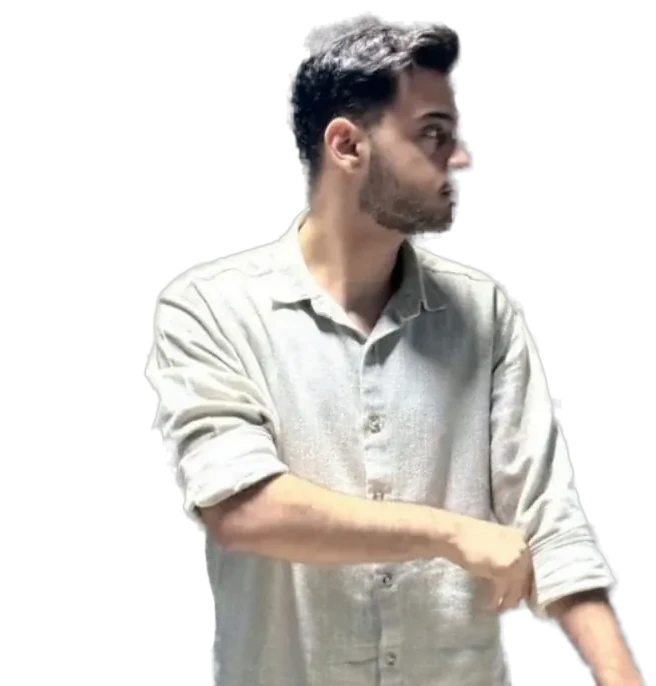
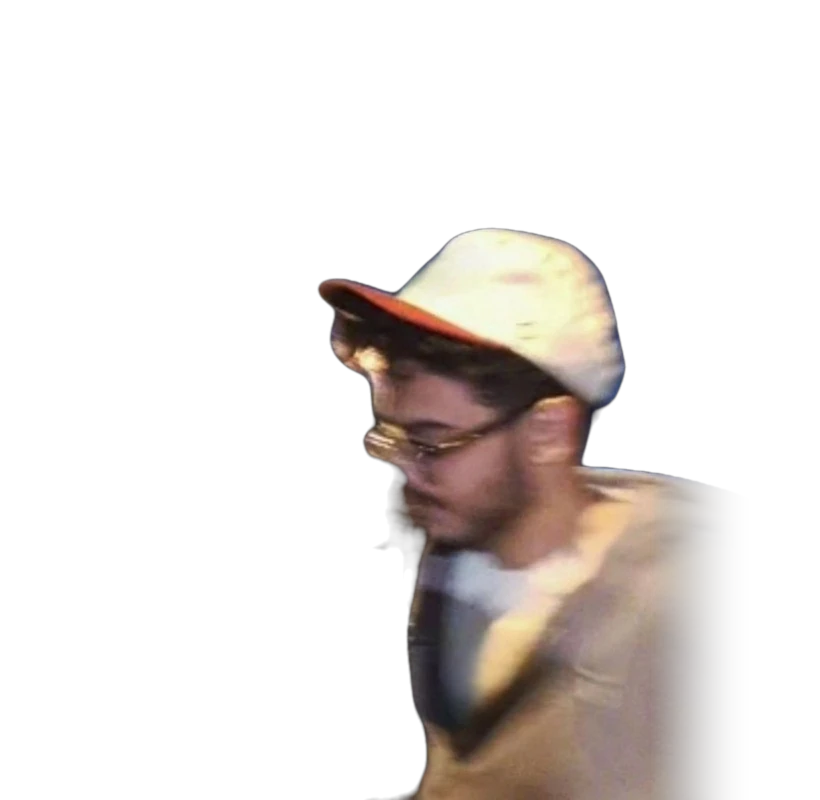
Use Amin's new photo as the home hero portrait
Replaces the hero cut-out with the photo Amin sent (cap and glasses,
evening street). The background was removed with a person-segmentation
model, the frame's cut on the right is faded out, and the bust is set on a
taller transparent canvas so the head lands across the surname at about
the old figure's scale. The site's black-and-white treatment hides some
of the photo's motion blur.

Claude-Session: https://claude.ai/code/session_01JCZMuP8JWKN3MfwXerRzAC

diff --git a/src/site/pages/Home.tsx b/src/site/pages/Home.tsx
@@ -52,7 +52,7 @@ function Hero() {
         showSplash={showSplash}
         name={e.name[locale]}
         intro={{ roles: e.roles[locale], headline: e.headline[locale], description: pick(copy.hero.body, locale) }}
-        portrait={{ src: '/images/amin-cutout.webp', width: 656, height: 686, alt: pick(person.name, locale) }}
+        portrait={{ src: '/images/amin-cutout.webp', width: 820, height: 800, alt: pick(person.name, locale) }}
         books={books}
         bookCard={{ href: brandHref('/work'), open: pick(e.bookCard.open, locale), close: pick(e.bookCard.close, locale), folio: '1' }}
         letter={{
